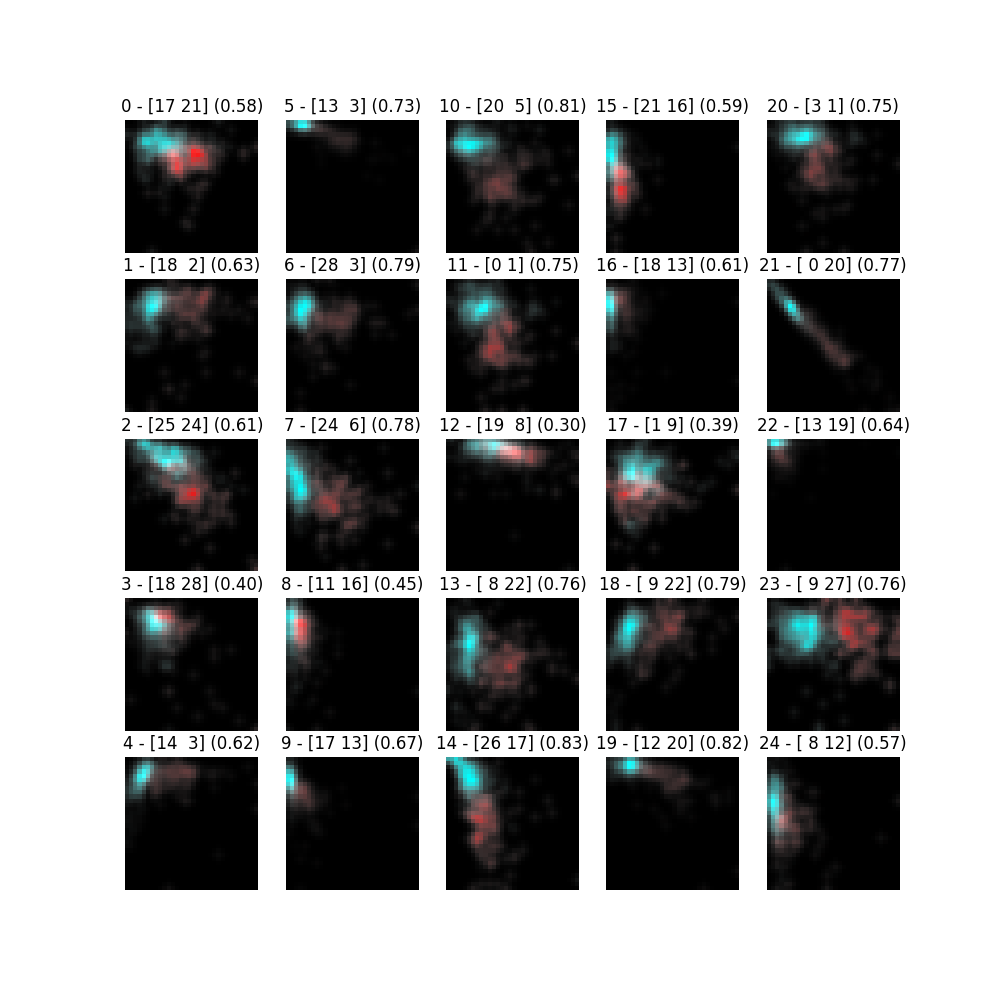
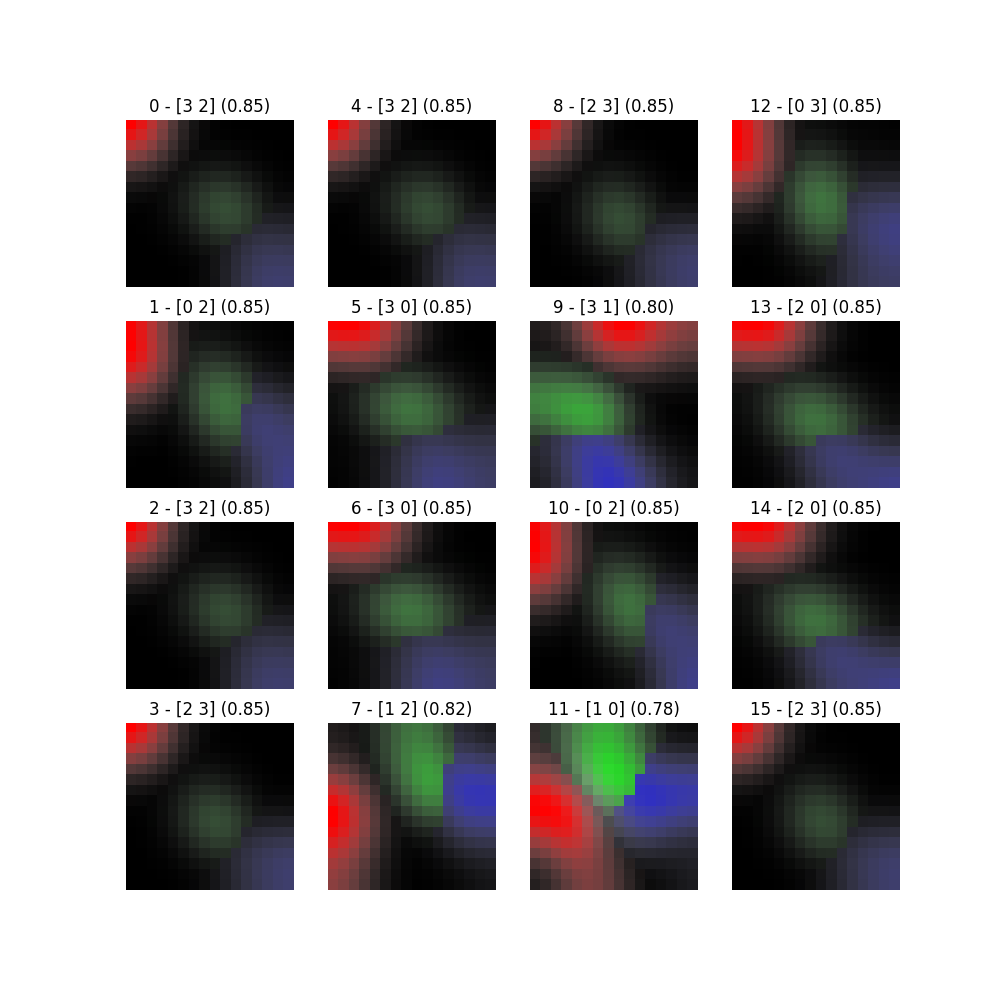
Pushing the docs for revision for branch: master, commit a24374dfc6fe9a0ef2cb7b6d84ce9c0852b19b29

diff --git a/searchindex.js b/searchindex.js
@@ -1,1 +1,1 @@
-Search.setIndex({docnames:["about","api","auto_examples/compare_classifiers","auto_examples/compare_nonplanar","auto_examples/index","auto_examples/plot_colorspace","auto_examples/plot_ee","auto_examples/plot_exposer","auto_examples/plot_hyperparameters","exposing","index","install"],envversion:52,filenames:["about.rst","api.rst","auto_examples/compare_classifiers.rst","auto_examples/compare_nonplanar.rst","auto_examples/index.rst","auto_examples/plot_colorspace.rst","auto_examples/plot_ee.rst","auto_examples/plot_exposer.rst","auto_examples/plot_hyperparameters.rst","exposing.rst","index.rst","install.rst"],objects:{"":{exposing:[9,0,0,"-"]},"exposing.Exposer":{fit:[9,2,1,""],hsv:[9,2,1,""],locations:[9,2,1,""],model:[9,2,1,""],predict:[9,2,1,""],predict_proba:[9,2,1,""],rgb:[9,2,1,""],signatures:[9,2,1,""]},exposing:{EE:[9,1,1,""],Exposer:[9,1,1,""]}},objnames:{"0":["py","module","Python module"],"1":["py","class","Python class"],"2":["py","method","Python method"]},objtypes:{"0":"py:module","1":"py:class","2":"py:method"},terms:{"class":[5,9,10],"default":9,"float":9,"function":9,"import":[2,3,5,6,7,8],"int":9,"return":9,"true":[2,3,6],The:[9,11],Use:11,a_step:[6,7,8,9],a_stepss:8,about:10,acc:8,adaboost:[2,3],adaboostclassifi:[2,3],addtion:[1,10],adipis:[0,1,9,10],aliqua:[0,1,9,10],aliquip:[0,1,9,10],all:[4,11],amet:[0,1,9,10],analysi:9,anim:[0,1,9,10],anisotrop:9,anyon:10,api:10,approach:9,arrai:9,array_lik:9,assert_almost_equ:[2,3,5,6,7,8],attribut:9,aut:[0,1,9,10],auto_examples_jupyt:4,auto_examples_python:4,avail:11,axi:[5,8],axs:5,axx:5,basic:9,bay:[2,3],bin:9,calcul:9,can:11,center:5,cillum:[0,1,9,10],classifi:[4,9],clf:[2,3,5,8],clone:11,closest:9,cluster_std:5,cmap:5,code:[2,3,4,5,6,7,8],colorspac:4,com:11,come:10,command:11,commodo:[0,1,9,10],compar:4,compare_classifi:2,compare_nonplanar:3,compat:10,complet:9,concept:9,consectetur:[0,1,9,10],consequat:[0,1,9,10],contain:10,copi:11,correspond:9,culpa:[0,1,9,10],cupidatat:[0,1,9,10],dataset:[4,5,6,7,8,9],datetim:[2,3],decis:[2,3],decisiontreeclassifi:[2,3],depend:11,deserunt:[0,1,9,10],detect:9,develop:10,diffus:9,dimens:9,discriminant_analysi:[2,3],divid:9,document:9,dolor:[0,1,9,10],download:[2,3,4,5,6,7,8],ds_idx:[2,3],dui:[0,1,9,10],dure:9,each:9,edg:9,eeequal:3,eetheta:3,eiusmod:[0,1,9,10],elit:[0,1,9,10],end:[2,3],enim:[0,1,9,10],ensembl:[2,3,9],ensemble_:6,enumer:[2,3,8],equal:3,ess:[0,1,9,10],est:[0,1,9,10],estim:[6,7,10],evalu:9,everi:9,exampl:[2,3,5,6,7,8,10],excepteur:[0,1,9,10],exercit:[0,1,9,10],expos:[1,2,3,4,6,8],exposit:4,factor:2,featur:9,fig:[5,6,8],figsiz:[5,6,8],file:11,fit:[2,3,5,6,7,8,9],fit_transform:2,follow:11,forest:[2,3],from:[2,3,5,6,7,8,9,11],fugiat:[0,1,9,10],fuser:[3,9],fuzzi:9,galleri:[2,3,4,5,6,7,8],gamma:[2,3],gaussian_process:[2,3],gaussiannb:[2,3],gaussianprocessclassifi:[2,3],gener:[2,3,5,6,7,8,10],get:[2,3,11],git:11,github:11,given:9,given_subspac:9,grai:5,grain:[6,7,8,9],grana:9,hsv:[5,9],http:11,hue:5,hyperparamet:4,idx:[2,3],ieee:9,implement:[9,10],imshow:[5,6,7,8],incididunt:[0,1,9,10],index:6,indic:9,influenc:4,inform:[1,9,10],input:9,instal:10,intellig:9,introductori:4,ipsum:[0,1,9,10],ipynb:[2,3,5,6,7,8],irur:[0,1,9,10],journal:9,jupyt:[2,3,4,5,6,7,8],kei:[2,3],kernel:[2,3],kneighborsclassifi:[2,3],ksieniewicz:9,label:9,labor:[0,1,9,10],labori:[0,1,9,10],laborum:[0,1,9,10],last:9,learn:[10,11],len:8,like:9,linear:[2,3],linearly_separ:2,load_breast_canc:[3,6],load_iri:[3,6],locat:9,lorem:[0,1,9,10],machin:9,magna:[0,1,9,10],mai:11,make_blob:5,make_circl:[2,3],make_classif:[2,3],make_moon:[2,3,6,7,8],malik:9,matplotlib:[2,3,5,6,7,8],max_depth:[2,3],max_featur:[2,3],mayb:10,mean:9,med:[2,3],method:9,microsecond:[2,3],minim:[0,1,9,10],minut:[2,3,5,6,7,8],mlpclassifi:[2,3],model:[5,9],model_select:[2,3,5,6,7,8],modul:[9,10],mollit:[0,1,9,10],multilay:9,n_base:[6,9],n_class:9,n_clusters_per_class:2,n_estim:[2,3],n_featur:[2,5,9],n_inform:2,n_redund:2,n_sampl:[2,5,7,8,9],n_seek:9,naiv:[2,3],naive_bay:[2,3],name:[2,3],nearest:[2,3],neg:5,neighbor:[2,3],neural_network:[2,3],nisi:[0,1,9,10],nois:[2,7,8],non:[0,1,9,10],none:9,nostrud:[0,1,9,10],note:9,notebook:[2,3,4,5,6,7,8],now:[2,3],nulla:[0,1,9,10],number:9,numpi:[2,3,5,6,7,8,11],object:9,occaecat:[0,1,9,10],off:[5,8],officia:[0,1,9,10],option:9,packag:11,pair:9,paramet:[4,9],pariatur:[0,1,9,10],part:[2,3],pass:9,pattern:9,perona:9,pip:11,pixel:9,planar:[4,9],plot:[2,3,5,6,7,8],plot_colorspac:5,plot_e:6,plot_expos:7,plot_hyperparamet:8,plt:[2,3,5,6,7,8],posit:5,predict:9,predict_proba:9,prefer:11,preprocess:[2,3],prerequisit:10,print:[2,3],proident:[0,1,9,10],project:10,pypi:11,pyplot:[2,3,5,6,7,8],python:[2,3,4,5,6,7,8],qda:[2,3],quadraticdiscriminantanalysi:[2,3],qui:[0,1,9,10],random:[2,3,9],random_st:[2,3,5,6,7,8,9],randomforestclassifi:[2,3],randomst:2,rbf:[2,3],real:4,refer:[9,10],reload:7,reporitori:11,reprehenderit:[0,1,9,10],represent:9,requir:11,result:[2,3],return_x_i:[3,6],revers:[2,3],rgb:[5,6,7,8,9],rng:2,run:[2,3,5,6,7,8,11],sampl:9,satur:[5,9],scale:9,scikit:[10,11],scipi:11,score:[2,3,8],script:[2,3,5,6,7,8],second:[2,3,5,6,7,8],sed:[0,1,9,10],seen:9,self:9,set_axis_off:[6,8],set_titl:[5,6,8],setup:11,shape:[2,3,9],show:[4,8],signatur:9,singl:10,sint:[0,1,9,10],sit:[0,1,9,10],size:2,sklearn:[2,3,5,6,7,8],skltemplat:[2,3,5,6,7,8],sort:[2,3],sourc:[2,3,4,5,6,7,8,9],space:9,sphinx:[2,3,4,5,6,7,8],split:[2,3],standardscal:2,start:[2,3],step:9,stream:[10,11],subplot:[5,6,8],subsampl:9,subspac:9,subspaces_:6,sunt:[0,1,9,10],svc:[2,3],svm:[2,3],synthet:4,system:9,target:9,templat:[2,3,5,6,7,8,10],templateclassifi:[2,3,5,6,7,8],tempor:[0,1,9,10],test:[2,3,5,6,7,8,10],test_siz:[2,3,5,6,7,8],theta:[3,9],theta_:9,thetas_:6,thi:10,three:4,time:[2,3,5,6,7,8],total:[2,3,5,6,7,8],train:[2,3,9],train_test_split:[2,3,5,6,7,8],transact:9,tree:[2,3],tupl:9,tutori:10,two:9,udr:9,ullamco:[0,1,9,10],uniform:2,unit:10,updat:[2,3],usag:9,used:9,using:[9,11],valu:[5,9],velit:[0,1,9,10],veniam:[0,1,9,10],visual:[5,9],volupt:[0,1,9,10],w4k2:11,which:10,who:10,wish:10,wozniak:9,x_test:[2,3,5,6,7,8],x_train:[2,3,5,6,7,8],xrang:6,y_test:[2,3,5,6,7,8],y_train:[2,3,5,6,7,8],you:11,zip:[2,3,4]},titles:["About stream-learn","API Documentation","Comparing classifiers on three synthetic datasets","Comparing classifiers on three real datasets","General examples","Showing colorspace parameters of planar Exposer","Showing Exposition of EE","Showing Exposition of planar Exposer","Influence of hyperparameters","Exposing","Welcome to exposing documentation!","Instalation"],titleterms:{about:0,api:1,classifi:[2,3],colorspac:5,compar:[2,3],dataset:[2,3],document:[1,10],exampl:4,expos:[5,7,9,10],exposit:[6,7],gener:4,hyperparamet:8,influenc:8,instal:11,learn:0,paramet:5,planar:[5,7],prerequisit:11,real:3,show:[5,6,7],stream:0,synthet:2,three:[2,3],welcom:10}})
+Search.setIndex({docnames:["about","api","auto_examples/compare_classifiers","auto_examples/compare_nonplanar","auto_examples/index","auto_examples/plot_colorspace","auto_examples/plot_ee","auto_examples/plot_exposer","auto_examples/plot_hyperparameters","exposing","index","install"],envversion:52,filenames:["about.rst","api.rst","auto_examples/compare_classifiers.rst","auto_examples/compare_nonplanar.rst","auto_examples/index.rst","auto_examples/plot_colorspace.rst","auto_examples/plot_ee.rst","auto_examples/plot_exposer.rst","auto_examples/plot_hyperparameters.rst","exposing.rst","index.rst","install.rst"],objects:{"":{exposing:[9,0,0,"-"]},"exposing.Exposer":{fit:[9,2,1,""],hsv:[9,2,1,""],locations:[9,2,1,""],model:[9,2,1,""],predict:[9,2,1,""],predict_proba:[9,2,1,""],rgb:[9,2,1,""],signatures:[9,2,1,""]},exposing:{EE:[9,1,1,""],Exposer:[9,1,1,""]}},objnames:{"0":["py","module","Python module"],"1":["py","class","Python class"],"2":["py","method","Python method"]},objtypes:{"0":"py:module","1":"py:class","2":"py:method"},terms:{"class":[5,9,10],"default":9,"float":9,"function":9,"import":[2,3,5,6,7,8],"int":9,"return":9,"true":[2,3,6],The:[9,11],Use:11,a_step:[6,7,8,9],a_stepss:8,about:10,acc:8,adaboost:[2,3],adaboostclassifi:[2,3],addtion:[1,10],adipis:[0,1,9,10],aliqua:[0,1,9,10],aliquip:[0,1,9,10],all:[4,11],amet:[0,1,9,10],analysi:9,anim:[0,1,9,10],anisotrop:9,anyon:10,api:10,approach:9,arrai:9,array_lik:9,assert_almost_equ:[2,3,5,6,7,8],attribut:9,aut:[0,1,9,10],auto_examples_jupyt:4,auto_examples_python:4,avail:11,axi:[5,8],axs:5,axx:5,basic:9,bay:[2,3],bin:9,calcul:9,can:11,center:5,cillum:[0,1,9,10],classifi:[4,9],clf:[2,3,5,8],clone:11,closest:9,cluster_std:5,cmap:5,code:[2,3,4,5,6,7,8],colorspac:4,com:11,come:10,command:11,commodo:[0,1,9,10],compar:4,compare_classifi:2,compare_nonplanar:3,compat:10,complet:9,concept:9,consectetur:[0,1,9,10],consequat:[0,1,9,10],contain:10,copi:11,correspond:9,culpa:[0,1,9,10],cupidatat:[0,1,9,10],dataset:[4,5,6,7,8,9],datetim:[2,3],decis:[2,3],decisiontreeclassifi:[2,3],depend:11,deserunt:[0,1,9,10],detect:9,develop:10,diffus:9,dimens:9,discriminant_analysi:[2,3],divid:9,document:9,dolor:[0,1,9,10],download:[2,3,4,5,6,7,8],ds_idx:[2,3],dui:[0,1,9,10],dure:9,each:9,edg:9,eeequal:3,eetheta:3,eiusmod:[0,1,9,10],elit:[0,1,9,10],end:[2,3],enim:[0,1,9,10],ensembl:[2,3,9],ensemble_:6,enumer:[2,3,8],equal:3,ess:[0,1,9,10],est:[0,1,9,10],estim:[6,7,10],evalu:9,everi:9,exampl:[2,3,5,6,7,8,10],excepteur:[0,1,9,10],exercit:[0,1,9,10],expos:[1,2,3,4,6,8],exposit:4,factor:2,featur:9,fig:[5,6,8],figsiz:[5,6,8],file:11,fit:[2,3,5,6,7,8,9],fit_transform:2,follow:11,forest:[2,3],from:[2,3,5,6,7,8,9,11],fugiat:[0,1,9,10],fuser:[3,9],fuzzi:9,galleri:[2,3,4,5,6,7,8],gamma:[2,3],gaussian_process:[2,3],gaussiannb:[2,3],gaussianprocessclassifi:[2,3],gener:[2,3,5,6,7,8,10],get:[2,3,11],git:11,github:11,given:9,given_subspac:9,grai:5,grain:[7,8,9],grana:9,hsv:[5,9],http:11,hue:5,hyperparamet:4,idx:[2,3],ieee:9,implement:[9,10],imshow:[5,6,7,8],incididunt:[0,1,9,10],index:6,indic:9,influenc:4,inform:[1,9,10],input:9,instal:10,intellig:9,introductori:4,ipsum:[0,1,9,10],ipynb:[2,3,5,6,7,8],irur:[0,1,9,10],journal:9,jupyt:[2,3,4,5,6,7,8],kei:[2,3],kernel:[2,3],kneighborsclassifi:[2,3],ksieniewicz:9,label:9,labor:[0,1,9,10],labori:[0,1,9,10],laborum:[0,1,9,10],last:9,learn:[10,11],len:8,like:9,linear:[2,3],linearly_separ:2,load_breast_canc:[3,6],load_iri:[3,6],locat:9,lorem:[0,1,9,10],machin:9,magna:[0,1,9,10],mai:11,make_blob:5,make_circl:[2,3],make_classif:[2,3],make_moon:[2,3,6,7,8],malik:9,matplotlib:[2,3,5,6,7,8],max_depth:[2,3],max_featur:[2,3],mayb:10,mean:9,med:[2,3],method:9,microsecond:[2,3],minim:[0,1,9,10],minut:[2,3,5,6,7,8],mlpclassifi:[2,3],model:[5,9],model_select:[2,3,5,6,7,8],modul:[9,10],mollit:[0,1,9,10],multilay:9,n_base:[6,9],n_class:9,n_clusters_per_class:2,n_estim:[2,3],n_featur:[2,5,9],n_inform:2,n_redund:2,n_sampl:[2,5,7,8,9],n_seek:9,naiv:[2,3],naive_bay:[2,3],name:[2,3],nearest:[2,3],neg:5,neighbor:[2,3],neural_network:[2,3],nisi:[0,1,9,10],nois:[2,7,8],non:[0,1,9,10],none:9,nostrud:[0,1,9,10],note:9,notebook:[2,3,4,5,6,7,8],now:[2,3],nulla:[0,1,9,10],number:9,numpi:[2,3,5,6,7,8,11],object:9,occaecat:[0,1,9,10],off:[5,8],officia:[0,1,9,10],option:9,packag:11,pair:9,paramet:[4,9],pariatur:[0,1,9,10],part:[2,3],pass:9,pattern:9,perona:9,pip:11,pixel:9,planar:[4,9],plot:[2,3,5,6,7,8],plot_colorspac:5,plot_e:6,plot_expos:7,plot_hyperparamet:8,plt:[2,3,5,6,7,8],posit:5,predict:9,predict_proba:9,prefer:11,preprocess:[2,3],prerequisit:10,print:[2,3],proident:[0,1,9,10],project:10,pypi:11,pyplot:[2,3,5,6,7,8],python:[2,3,4,5,6,7,8],qda:[2,3],quadraticdiscriminantanalysi:[2,3],qui:[0,1,9,10],random:[2,3,9],random_st:[2,3,5,6,7,8,9],randomforestclassifi:[2,3],randomst:2,rbf:[2,3],real:4,refer:[9,10],reload:7,reporitori:11,reprehenderit:[0,1,9,10],represent:9,requir:11,result:[2,3],return_x_i:[3,6],revers:[2,3],rgb:[5,6,7,8,9],rng:2,run:[2,3,5,6,7,8,11],sampl:9,satur:[5,9],scale:9,scikit:[10,11],scipi:11,score:[2,3,8],script:[2,3,5,6,7,8],second:[2,3,5,6,7,8],sed:[0,1,9,10],seen:9,self:9,set_axis_off:[6,8],set_titl:[5,6,8],setup:11,shape:[2,3,9],show:[4,8],signatur:9,singl:10,sint:[0,1,9,10],sit:[0,1,9,10],size:2,sklearn:[2,3,5,6,7,8],skltemplat:[2,3,5,6,7,8],sort:[2,3],sourc:[2,3,4,5,6,7,8,9],space:9,sphinx:[2,3,4,5,6,7,8],split:[2,3],standardscal:2,start:[2,3],step:9,stream:[10,11],subplot:[5,6,8],subsampl:9,subspac:9,subspaces_:6,sunt:[0,1,9,10],svc:[2,3],svm:[2,3],synthet:4,system:9,target:9,templat:[2,3,5,6,7,8,10],templateclassifi:[2,3,5,6,7,8],tempor:[0,1,9,10],test:[2,3,5,6,7,8,10],test_siz:[2,3,5,6,7,8],theta:[3,9],theta_:9,thetas_:6,thi:10,three:4,time:[2,3,5,6,7,8],total:[2,3,5,6,7,8],train:[2,3,9],train_test_split:[2,3,5,6,7,8],transact:9,tree:[2,3],tupl:9,tutori:10,two:9,udr:9,ullamco:[0,1,9,10],uniform:2,unit:10,updat:[2,3],usag:9,used:9,using:[9,11],valu:[5,9],velit:[0,1,9,10],veniam:[0,1,9,10],visual:[5,9],volupt:[0,1,9,10],w4k2:11,which:10,who:10,wish:10,wozniak:9,x_test:[2,3,5,6,7,8],x_train:[2,3,5,6,7,8],xrang:6,y_test:[2,3,5,6,7,8],y_train:[2,3,5,6,7,8],you:11,zip:[2,3,4]},titles:["About stream-learn","API Documentation","Comparing classifiers on three synthetic datasets","Comparing classifiers on three real datasets","General examples","Showing colorspace parameters of planar Exposer","Showing Exposition of EE","Showing Exposition of planar Exposer","Influence of hyperparameters","Exposing","Welcome to exposing documentation!","Instalation"],titleterms:{about:0,api:1,classifi:[2,3],colorspac:5,compar:[2,3],dataset:[2,3],document:[1,10],exampl:4,expos:[5,7,9,10],exposit:[6,7],gener:4,hyperparamet:8,influenc:8,instal:11,learn:0,paramet:5,planar:[5,7],prerequisit:11,real:3,show:[5,6,7],stream:0,synthet:2,three:[2,3],welcom:10}})

diff --git a/auto_examples/plot_ee.html b/auto_examples/plot_ee.html
@@ -193,18 +193,18 @@
 
 <span class="kn">import</span> <span class="nn">exposing</span>
 
-<span class="n">ds</span> <span class="o">=</span> <span class="n">load_breast_cancer</span><span class="p">(</span><span class="n">return_X_y</span><span class="o">=</span><span class="bp">True</span><span class="p">)</span>
+<span class="n">ds</span> <span class="o">=</span> <span class="n">load_iris</span><span class="p">(</span><span class="n">return_X_y</span><span class="o">=</span><span class="bp">True</span><span class="p">)</span>
 <span class="n">X</span><span class="p">,</span> <span class="n">y</span> <span class="o">=</span> <span class="n">ds</span>
 <span class="n">X_train</span><span class="p">,</span> <span class="n">X_test</span><span class="p">,</span> <span class="n">y_train</span><span class="p">,</span> <span class="n">y_test</span> <span class="o">=</span> \
     <span class="n">train_test_split</span><span class="p">(</span><span class="n">X</span><span class="p">,</span> <span class="n">y</span><span class="p">,</span> <span class="n">test_size</span><span class="o">=.</span><span class="mi">4</span><span class="p">,</span> <span class="n">random_state</span><span class="o">=</span><span class="mi">42</span><span class="p">)</span>
 
-<span class="n">estimator</span> <span class="o">=</span> <span class="n">exposing</span><span class="o">.</span><span class="n">EE</span><span class="p">(</span><span class="n">a_steps</span><span class="o">=</span><span class="mi">5</span><span class="p">,</span> <span class="n">grain</span><span class="o">=</span><span class="mi">32</span><span class="p">,</span> <span class="n">random_state</span><span class="o">=</span><span class="mi">1</span><span class="p">,</span> <span class="n">n_base</span><span class="o">=</span><span class="mi">25</span><span class="p">)</span>
+<span class="n">estimator</span> <span class="o">=</span> <span class="n">exposing</span><span class="o">.</span><span class="n">EE</span><span class="p">(</span><span class="n">a_steps</span><span class="o">=</span><span class="mi">30</span><span class="p">,</span> <span class="n">random_state</span><span class="o">=</span><span class="mi">1</span><span class="p">,</span> <span class="n">n_base</span><span class="o">=</span><span class="mi">16</span><span class="p">)</span>
 <span class="n">estimator</span><span class="o">.</span><span class="n">fit</span><span class="p">(</span><span class="n">X_train</span><span class="p">,</span> <span class="n">y_train</span><span class="p">)</span>
 
-<span class="n">fig</span><span class="p">,</span> <span class="n">ax</span> <span class="o">=</span> <span class="n">plt</span><span class="o">.</span><span class="n">subplots</span><span class="p">(</span><span class="mi">5</span><span class="p">,</span> <span class="mi">5</span><span class="p">,</span> <span class="n">figsize</span><span class="o">=</span><span class="p">(</span><span class="mi">10</span><span class="p">,</span> <span class="mi">10</span><span class="p">))</span>
-<span class="k">for</span> <span class="n">i</span> <span class="ow">in</span> <span class="nb">xrange</span><span class="p">(</span><span class="mi">5</span><span class="p">):</span>
-    <span class="k">for</span> <span class="n">j</span> <span class="ow">in</span> <span class="nb">xrange</span><span class="p">(</span><span class="mi">5</span><span class="p">):</span>
-        <span class="n">index</span> <span class="o">=</span> <span class="n">i</span> <span class="o">+</span> <span class="n">j</span><span class="o">*</span><span class="mi">5</span>
+<span class="n">fig</span><span class="p">,</span> <span class="n">ax</span> <span class="o">=</span> <span class="n">plt</span><span class="o">.</span><span class="n">subplots</span><span class="p">(</span><span class="mi">4</span><span class="p">,</span> <span class="mi">4</span><span class="p">,</span> <span class="n">figsize</span><span class="o">=</span><span class="p">(</span><span class="mi">10</span><span class="p">,</span> <span class="mi">10</span><span class="p">))</span>
+<span class="k">for</span> <span class="n">i</span> <span class="ow">in</span> <span class="nb">xrange</span><span class="p">(</span><span class="mi">4</span><span class="p">):</span>
+    <span class="k">for</span> <span class="n">j</span> <span class="ow">in</span> <span class="nb">xrange</span><span class="p">(</span><span class="mi">4</span><span class="p">):</span>
+        <span class="n">index</span> <span class="o">=</span> <span class="n">i</span> <span class="o">+</span> <span class="n">j</span><span class="o">*</span><span class="mi">4</span>
         <span class="n">ax</span><span class="p">[</span><span class="n">i</span><span class="p">,</span> <span class="n">j</span><span class="p">]</span><span class="o">.</span><span class="n">imshow</span><span class="p">(</span><span class="n">estimator</span><span class="o">.</span><span class="n">ensemble_</span><span class="p">[</span><span class="n">index</span><span class="p">]</span><span class="o">.</span><span class="n">rgb</span><span class="p">())</span>
         <span class="n">ax</span><span class="p">[</span><span class="n">i</span><span class="p">,</span> <span class="n">j</span><span class="p">]</span><span class="o">.</span><span class="n">set_title</span><span class="p">(</span><span class="s2">&quot;</span><span class="si">%i</span><span class="s2"> - </span><span class="si">%s</span><span class="s2"> (</span><span class="si">%.2f</span><span class="s2">)&quot;</span> <span class="o">%</span> <span class="p">(</span>
             <span class="n">index</span><span class="p">,</span>
@@ -215,7 +215,7 @@
 <span class="n">plt</span><span class="o">.</span><span class="n">show</span><span class="p">()</span>
 </pre></div>
 </div>
-<p><strong>Total running time of the script:</strong> ( 0 minutes  0.405 seconds)</p>
+<p><strong>Total running time of the script:</strong> ( 0 minutes  0.404 seconds)</p>
 <div class="sphx-glr-footer docutils container">
 <div class="sphx-glr-download docutils container">
 <a class="reference download internal" href="../_downloads/plot_ee.py" download=""><code class="xref download docutils literal notranslate"><span class="pre">Download</span> <span class="pre">Python</span> <span class="pre">source</span> <span class="pre">code:</span> <span class="pre">plot_ee.py</span></code></a></div>

diff --git a/auto_examples/plot_hyperparameters.html b/auto_examples/plot_hyperparameters.html
@@ -215,7 +215,7 @@
 <span class="n">plt</span><span class="o">.</span><span class="n">show</span><span class="p">()</span>
 </pre></div>
 </div>
-<p><strong>Total running time of the script:</strong> ( 0 minutes  0.817 seconds)</p>
+<p><strong>Total running time of the script:</strong> ( 0 minutes  0.820 seconds)</p>
 <div class="sphx-glr-footer docutils container">
 <div class="sphx-glr-download docutils container">
 <a class="reference download internal" href="../_downloads/plot_hyperparameters.py" download=""><code class="xref download docutils literal notranslate"><span class="pre">Download</span> <span class="pre">Python</span> <span class="pre">source</span> <span class="pre">code:</span> <span class="pre">plot_hyperparameters.py</span></code></a></div>

diff --git a/auto_examples/plot_colorspace.html b/auto_examples/plot_colorspace.html
@@ -229,7 +229,7 @@
 <span class="n">plt</span><span class="o">.</span><span class="n">show</span><span class="p">()</span>
 </pre></div>
 </div>
-<p><strong>Total running time of the script:</strong> ( 0 minutes  0.085 seconds)</p>
+<p><strong>Total running time of the script:</strong> ( 0 minutes  0.086 seconds)</p>
 <div class="sphx-glr-footer docutils container">
 <div class="sphx-glr-download docutils container">
 <a class="reference download internal" href="../_downloads/plot_colorspace.py" download=""><code class="xref download docutils literal notranslate"><span class="pre">Download</span> <span class="pre">Python</span> <span class="pre">source</span> <span class="pre">code:</span> <span class="pre">plot_colorspace.py</span></code></a></div>

diff --git a/auto_examples/plot_exposer.html b/auto_examples/plot_exposer.html
@@ -207,7 +207,7 @@
 <span class="n">plt</span><span class="o">.</span><span class="n">show</span><span class="p">()</span>
 </pre></div>
 </div>
-<p><strong>Total running time of the script:</strong> ( 0 minutes  0.310 seconds)</p>
+<p><strong>Total running time of the script:</strong> ( 0 minutes  0.311 seconds)</p>
 <div class="sphx-glr-footer docutils container">
 <div class="sphx-glr-download docutils container">
 <a class="reference download internal" href="../_downloads/plot_exposer.py" download=""><code class="xref download docutils literal notranslate"><span class="pre">Download</span> <span class="pre">Python</span> <span class="pre">source</span> <span class="pre">code:</span> <span class="pre">plot_exposer.py</span></code></a></div>

diff --git a/_downloads/plot_ee.py b/_downloads/plot_ee.py
@@ -14,18 +14,18 @@ from sklearn.datasets import load_breast_cancer, load_iris
 
 import exposing
 
-ds = load_breast_cancer(return_X_y=True)
+ds = load_iris(return_X_y=True)
 X, y = ds
 X_train, X_test, y_train, y_test = \
     train_test_split(X, y, test_size=.4, random_state=42)
 
-estimator = exposing.EE(a_steps=5, grain=32, random_state=1, n_base=25)
+estimator = exposing.EE(a_steps=30, random_state=1, n_base=16)
 estimator.fit(X_train, y_train)
 
-fig, ax = plt.subplots(5, 5, figsize=(10, 10))
-for i in xrange(5):
-    for j in xrange(5):
-        index = i + j*5
+fig, ax = plt.subplots(4, 4, figsize=(10, 10))
+for i in xrange(4):
+    for j in xrange(4):
+        index = i + j*4
         ax[i, j].imshow(estimator.ensemble_[index].rgb())
         ax[i, j].set_title("%i - %s (%.2f)" % (
             index,
